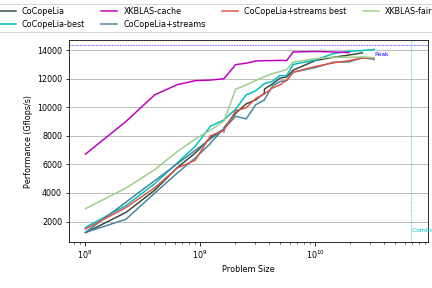
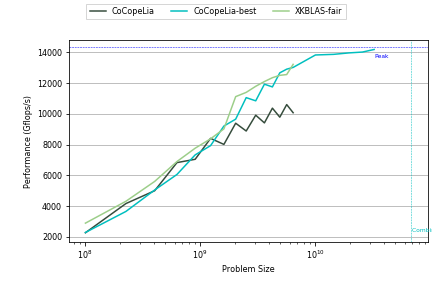
PLot Updates, RunnerBest minifix

Changed region(s): [[0.0903, 0.1562, 0.9931, 0.8438], [0.0, 0.0, 1.0, 0.125], [0.8125, 0.0, 1.0, 0.0625]]

diff --git a/Library_scheduler_experimental/src/DataCaching.cpp b/Library_scheduler_experimental/src/DataCaching.cpp
@@ -48,6 +48,9 @@ void CoCoPeLiaRequestBuffer(short dev_id, long long buff_req_sz){
 #ifdef DEBUG
   lprintf(lvl-1, "|-----> CoCoPeLiaRequestBuffer(%d, %lld)\n", dev_id, buff_req_sz);
 #endif
+#ifdef TEST
+	double cpu_timer = csecond();
+#endif
   if (GloBuf[dev_id] == NULL) GloBuf[dev_id] = CoCoPeLiaBufferInit(dev_id);
   long long free_dev_mem, max_dev_mem;
   CoCoPeLiaDevGetMemInfo(&free_dev_mem, &max_dev_mem);
@@ -74,6 +77,10 @@ void CoCoPeLiaRequestBuffer(short dev_id, long long buff_req_sz){
     CoCoSyncCheckErr();
   }
   else error("CoCoPeLia larger than dev mem not implemented\n");
+#ifdef TEST
+	cpu_timer = csecond() - cpu_timer;
+	lprintf(lvl, "GPU(%d) Buffer allocation with sz = %lld: t_alloc = %lf ms\n" , dev_id, buff_req_sz, cpu_timer*1000);
+#endif
 #ifdef DEBUG
 	lprintf(lvl-1, "<-----|\n");
 #endif
@@ -84,7 +91,6 @@ void* CoCoPeLiaAsignBuffer(short dev_id, long long size){
 #ifdef DEBUG
   lprintf(lvl-1, "|-----> CoCoPeLiaAsignBuffer(%d,%lld)\n", dev_id, size);
 #endif
-
   if (GloBuf[dev_id]->gpu_mem_offset + size > GloBuf[dev_id]->gpu_mem_buf_sz) error("CoCoPeLiaAsignBuffer: Buffer \
   full but request for more offset: %lld + %lld > %lld\n",
     GloBuf[dev_id]->gpu_mem_offset, size, GloBuf[dev_id]->gpu_mem_buf_sz);
@@ -102,6 +108,9 @@ void CoCopeLiaDgemm_flush_gpu_mem_buf(short dev_id)
 #ifdef DEBUG
 			lprintf(lvl-1, "|-----> CoCopeLiaDgemm_flush_gpu_mem_buf(dev_id=%d)\n", dev_id);
 #endif
+#ifdef TEST
+	double cpu_timer = csecond();
+#endif
 	if (GloBuf[dev_id]){
 #ifdef DEBUG
 		lprintf(lvl, "Clearing (presumably) %zu MB\n\n", (size_t) GloBuf[dev_id]->gpu_mem_buf_sz/1024/1024);
@@ -117,9 +126,23 @@ void CoCopeLiaDgemm_flush_gpu_mem_buf(short dev_id)
 #endif
 		;
 	}
+#ifdef TEST
+	cpu_timer = csecond() - cpu_timer;
+	lprintf(lvl, "Buffer de-allocation: t_free = %lf ms\n" , cpu_timer*1000);
+#endif
+#ifdef DEBUG
+	lprintf(lvl-1, "<-----|\n");
+#endif
 }
 
 void CoCoPeLiaDevCacheInvalidate(kernel_pthread_wrap_p subkernel_data){
+	short lvl = 3;
+#ifdef DEBUG
+	lprintf(lvl-1, "|-----> CoCoPeLiaDevCacheInvalidate(subkernel_list(len=%d)\n", subkernel_data->SubkernelNumDev);
+#endif
+#ifdef TEST
+	double cpu_timer = csecond();
+#endif
 	for (int i = 0; i < subkernel_data->SubkernelNumDev; i++){
 		Subkernel* curr = subkernel_data->SubkernelListDev[i];
 		for (int j = 0; j < curr->TileNum; j++){
@@ -132,4 +155,11 @@ void CoCoPeLiaDevCacheInvalidate(kernel_pthread_wrap_p subkernel_data){
 		}
 	}
   if (GloBuf[subkernel_data->devId]!= NULL) GloBuf[subkernel_data->devId]->gpu_mem_offset = 0;
+#ifdef TEST
+	cpu_timer = csecond() - cpu_timer;
+	lprintf(lvl, "Cache for %d Subkernels invalidated: t_nv = %lf ms\n" , subkernel_data->SubkernelNumDev, cpu_timer*1000);
+#endif
+#ifdef DEBUG
+	lprintf(lvl-1, "<-----|\n");
+#endif
 }

diff --git a/Benchmarking/CuCuBLAS/src/CoCoPeLiaDgemmRunnerBest.cpp b/Benchmarking/CuCuBLAS/src/CoCoPeLiaDgemmRunnerBest.cpp
@@ -84,14 +84,17 @@ int main(const int argc, const char *argv[]) {
 	CoCoSyncCheckErr();
 	cpu_timer  = csecond() - cpu_timer;
 
+	short bench_it = 10;
 	double best_t = cpu_timer;
 	for (size_t T_trial = (((size_t)fmax(fmin(fmin(M/32,N/32),K/32),512))/512)*512; T_trial <= (size_t) fmin(fmin(fmin(M/DEV_NUM,N/DEV_NUM),K),CBLASXT_MAX_SAFE_TILE); T_trial+=512){
 			fprintf(stderr,"Running CoCopeLia DGEMM-> M = %zu, N = %zu, K = %zu, T = %zu\n", M, N, K, T_trial);
 			predef_control_values-> T = T_trial;
 			cpu_timer  = csecond();
-			return_values = CoCopeLiaDgemmControled(TransA, TransB, M, N, K, alpha, A, ldA, B, ldB, beta, C , ldC, predef_control_values);
-			CoCoSyncCheckErr();
-			cpu_timer  = csecond() - cpu_timer;
+			for(int it = 0; it < bench_it; it++){
+				return_values = CoCopeLiaDgemmControled(TransA, TransB, M, N, K, alpha, A, ldA, B, ldB, beta, C , ldC, predef_control_values);
+				CoCoSyncCheckErr();
+			}
+			cpu_timer  = (csecond() - cpu_timer)/bench_it;
 			fprintf(stderr, "Total time:\t%lf ms\n", cpu_timer  * 1000);
 			if (cpu_timer < best_t){
 				best_t = cpu_timer;
@@ -148,7 +151,7 @@ int main(const int argc, const char *argv[]) {
 
 	double min_t = first_over_t, max_t = 0, avg_t = 0;
 	cpu_timer = csecond();
-	short bench_it = 100;
+  bench_it = 100;
 	if ( M >= 8192 || N >= 8192 || K >= 8192) bench_it = 10;
 	for(int it = 0; it < bench_it; it++){
 		cpu_timer = csecond();

diff --git a/Library_scheduler_experimental/include/Subkernel.hpp b/Library_scheduler_experimental/include/Subkernel.hpp
@@ -1,6 +1,6 @@
 /// \author Anastasiadis Petros (panastas@cslab.ece.ntua.gr)
 ///
-/// \brief The header containing the "Subkernel" (== subkernel) definition for data scheduling and management in heterogeneous multi-device systems.
+/// \brief The header containing the "Subkernel" definition for data scheduling and management in heterogeneous multi-device systems.
 ///
 
 #ifndef Subkernel_H

diff --git a/Library_scheduler_experimental/src/Subkernel.cpp b/Library_scheduler_experimental/src/Subkernel.cpp
@@ -1,7 +1,7 @@
 ///
 /// \author Anastasiadis Petros (panastas@cslab.ece.ntua.gr)
 ///
-/// \brief The "Asset" related function implementations.
+/// \brief The "Subkernel" related function implementations.
 ///
 
 #include "Subkernel.hpp"
